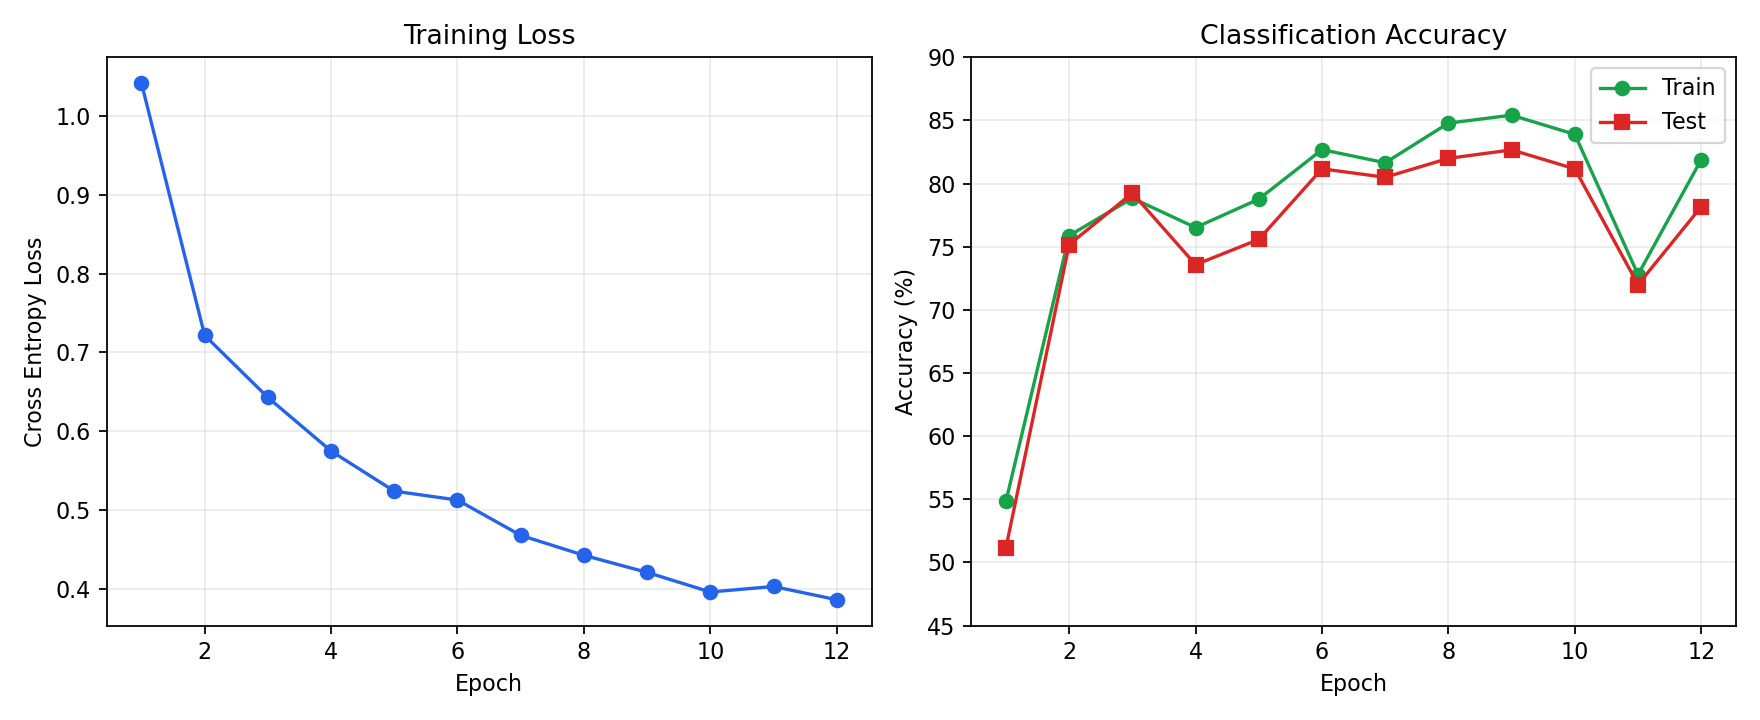
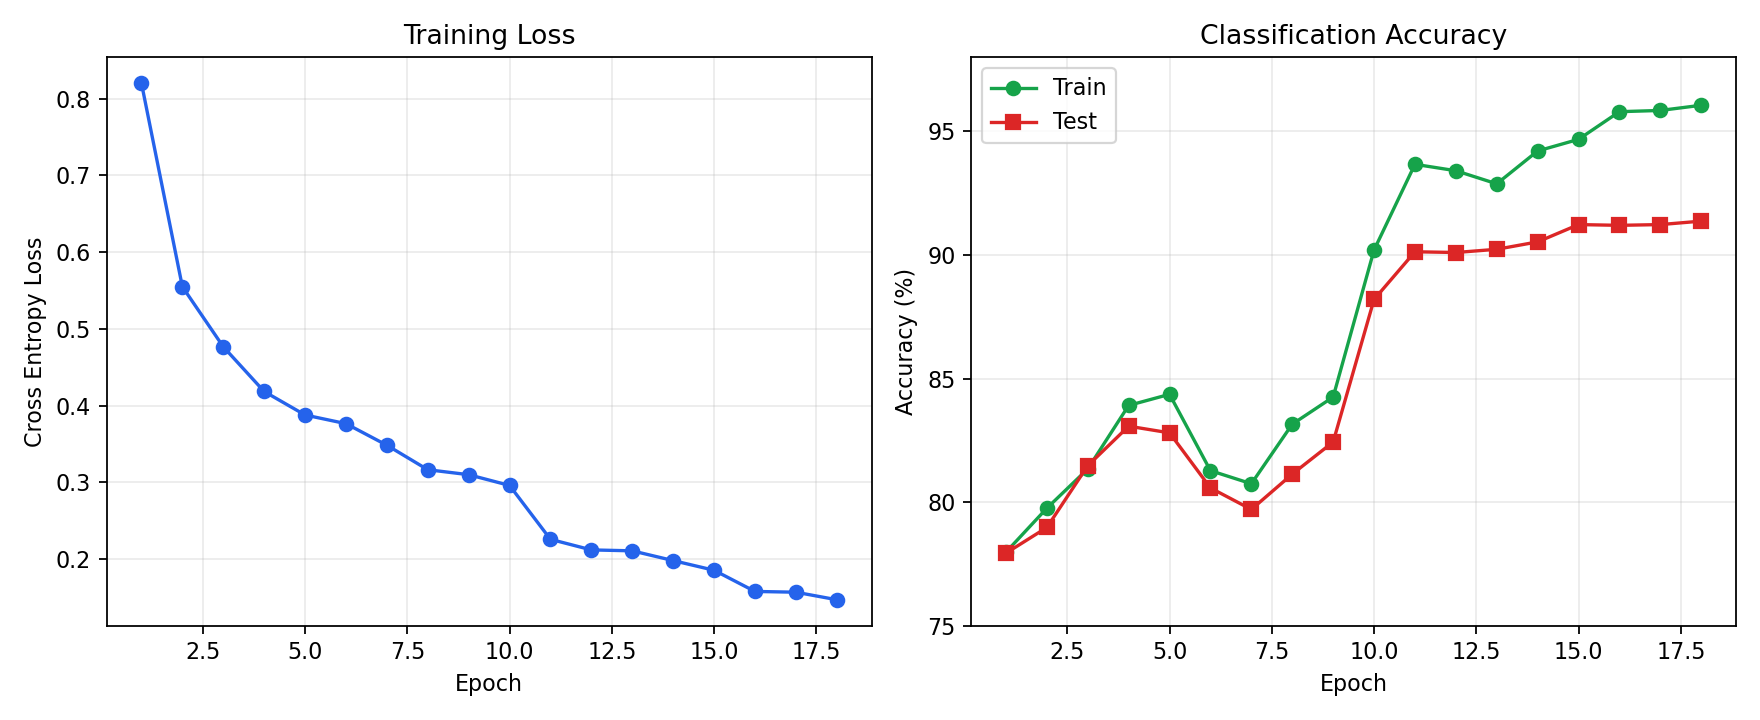
Improve scene classification accuracy

diff --git a/src/main.rs b/src/main.rs
@@ -6,11 +6,11 @@ use tch::vision::image;
 use tch::{Cuda, Device, Kind, Tensor};
 
 const SCENE_CLASSES: [&str; 6] = ["buildings", "forest", "glacier", "mountain", "sea", "street"];
-const IMAGE_SIZE: i64 = 96;
-const TRAIN_PER_CLASS: usize = 800;
-const TEST_PER_CLASS: usize = 200;
+const IMAGE_SIZE: i64 = 128;
+const TRAIN_PER_CLASS: usize = usize::MAX;
+const TEST_PER_CLASS: usize = usize::MAX;
 const BATCH_SIZE: i64 = 64;
-const EPOCHS: i64 = 12;
+const EPOCHS: i64 = 18;
 
 #[derive(Debug)]
 struct ParallelModule<N1, N2> {
@@ -180,9 +180,10 @@ fn scene_cnn(vs: &nn::Path<'_>) -> SequentialT {
         .add(conv_block(&(vs / "block2"), 32, 64))
         .add(conv_block(&(vs / "block3"), 64, 128))
         .add(conv_block(&(vs / "block4"), 128, 256))
+        .add(conv_block(&(vs / "block5"), 256, 512))
         .add_fn(|xs| xs.adaptive_avg_pool2d([1, 1]).flat_view())
-        .add_fn_t(|xs, train| xs.dropout(0.4, train))
-        .add(nn::linear(vs / "head", 256, SCENE_CLASSES.len() as i64, Default::default()))
+        .add_fn_t(|xs, train| xs.dropout(0.5, train))
+        .add(nn::linear(vs / "head", 512, SCENE_CLASSES.len() as i64, Default::default()))
 }
 
 fn image_files(dir: &Path, limit: usize) -> Result<Vec<PathBuf>> {
@@ -197,7 +198,9 @@ fn image_files(dir: &Path, limit: usize) -> Result<Vec<PathBuf>> {
         })
         .collect::<Vec<_>>();
     files.sort();
-    files.truncate(limit);
+    if limit != usize::MAX {
+        files.truncate(limit);
+    }
     Ok(files)
 }
 
@@ -212,7 +215,10 @@ fn load_scene_split(root: &Path, per_class: usize) -> Result<(Tensor, Tensor)> {
         for file in files {
             let img = image::load_and_resize(&file, IMAGE_SIZE, IMAGE_SIZE)
                 .with_context(|| format!("读取图片失败: {}", file.display()))?;
-            images.push(img.to_kind(Kind::Float) / 255.0);
+            let img = img.to_kind(Kind::Float) / 255.0;
+            let mean = Tensor::from_slice(&[0.485_f32, 0.456, 0.406]).reshape([3, 1, 1]);
+            let std = Tensor::from_slice(&[0.229_f32, 0.224, 0.225]).reshape([3, 1, 1]);
+            images.push((img - mean) / std);
             labels.push(label as i64);
         }
     }
@@ -268,11 +274,21 @@ fn run_scene_classification(device: Device) -> Result<()> {
     let vs = nn::VarStore::new(device);
     let net = scene_cnn(&vs.root());
     let params: usize = vs.trainable_variables().iter().map(|t| t.numel()).sum();
-    println!("CNN 结构: Conv-BN-ReLU-Pool x4 -> AdaptiveAvgPool -> Dropout -> Linear");
+    println!("CNN 结构: Conv-BN-ReLU-Pool x5 -> AdaptiveAvgPool -> Dropout -> Linear");
     println!("可训练参数量: {params}");
 
     let mut optimizer = nn::AdamW::default().build(&vs, 1e-3)?;
+    let mut best_test_acc = 0.0;
+    let mut best_epoch = 0;
     for epoch in 1..=EPOCHS {
+        let lr = if epoch <= 10 {
+            1e-3
+        } else if epoch <= 15 {
+            3e-4
+        } else {
+            1e-4
+        };
+        optimizer.set_lr(lr);
         let mut total_loss = 0.0;
         let mut batches = 0;
         for (batch_images, batch_labels) in tch::data::Iter2::new(&train_images, &train_labels, BATCH_SIZE)
@@ -289,11 +305,16 @@ fn run_scene_classification(device: Device) -> Result<()> {
 
         let train_acc = evaluate_accuracy(&net, &train_images, &train_labels, device);
         let test_acc = evaluate_accuracy(&net, &test_images, &test_labels, device);
+        if test_acc > best_test_acc {
+            best_test_acc = test_acc;
+            best_epoch = epoch;
+        }
         println!(
-            "epoch {epoch:02}: loss={:.4}, train_acc={:.2}%, test_acc={:.2}%",
+            "epoch {epoch:02}: lr={lr:.0e}, loss={:.4}, train_acc={:.2}%, test_acc={:.2}%, best_test_acc={:.2}%@epoch{best_epoch:02}",
             total_loss / batches as f64,
             train_acc * 100.0,
-            test_acc * 100.0
+            test_acc * 100.0,
+            best_test_acc * 100.0
         );
     }
 

diff --git a/scripts/visualize_dataset.py b/scripts/visualize_dataset.py
@@ -15,18 +15,24 @@ PLOTS_DIR = ROOT / "plots"
 CLASSES = ["buildings", "forest", "glacier", "mountain", "sea", "street"]
 
 TRAIN_LOG = [
-    (1, 1.0418, 54.85, 51.17),
-    (2, 0.7217, 75.88, 75.17),
-    (3, 0.6429, 78.85, 79.25),
-    (4, 0.5749, 76.52, 73.58),
-    (5, 0.5240, 78.77, 75.58),
-    (6, 0.5127, 82.69, 81.17),
-    (7, 0.4679, 81.65, 80.50),
-    (8, 0.4426, 84.79, 82.00),
-    (9, 0.4209, 85.42, 82.67),
-    (10, 0.3960, 83.90, 81.17),
-    (11, 0.4030, 72.79, 72.00),
-    (12, 0.3862, 81.90, 78.17),
+    (1, 0.8202, 77.97, 77.93),
+    (2, 0.5550, 79.75, 78.97),
+    (3, 0.4768, 81.34, 81.47),
+    (4, 0.4185, 83.91, 83.07),
+    (5, 0.3879, 84.36, 82.80),
+    (6, 0.3766, 81.27, 80.57),
+    (7, 0.3485, 80.74, 79.70),
+    (8, 0.3166, 83.15, 81.13),
+    (9, 0.3101, 84.25, 82.43),
+    (10, 0.2961, 90.20, 88.20),
+    (11, 0.2259, 93.67, 90.13),
+    (12, 0.2121, 93.41, 90.10),
+    (13, 0.2109, 92.88, 90.23),
+    (14, 0.1982, 94.21, 90.53),
+    (15, 0.1856, 94.68, 91.23),
+    (16, 0.1580, 95.80, 91.20),
+    (17, 0.1570, 95.85, 91.23),
+    (18, 0.1472, 96.06, 91.37),
 ]
 
 
@@ -83,7 +89,7 @@ def save_training_curves() -> None:
     ax_acc.set_title("Classification Accuracy")
     ax_acc.set_xlabel("Epoch")
     ax_acc.set_ylabel("Accuracy (%)")
-    ax_acc.set_ylim(45, 90)
+    ax_acc.set_ylim(75, 98)
     ax_acc.legend()
     ax_acc.grid(alpha=0.25)
 

diff --git a/report.md b/report.md
@@ -229,10 +229,10 @@ street    501
 
 `rocm-smi` 观察到 GPU[0] 使用率达到 `99% - 100%`，说明训练确实在显卡上执行。
 
-本实验每个类别抽取 800 张训练图片、200 张测试图片，并统一缩放到 `96 x 96`。模型结构如下：
+为了提高分类指标，本实验改为使用完整训练集和完整测试集，并将输入图片统一缩放到 `128 x 128`。读取图片后使用 ImageNet 常用均值和标准差进行标准化。模型结构如下：
 
 ```text
-输入: 3 x 96 x 96
+输入: 3 x 128 x 128
 
 卷积块 1:
 Conv2d(3 -> 32, kernel=3, padding=1, bias=false)
@@ -242,7 +242,7 @@ Conv2d(32 -> 32, kernel=3, padding=1, bias=false)
 BatchNorm2d(32)
 ReLU
 MaxPool2d(kernel=2)
-输出: 32 x 48 x 48
+输出: 32 x 64 x 64
 
 卷积块 2:
 Conv2d(32 -> 64, kernel=3, padding=1, bias=false)
@@ -252,7 +252,7 @@ Conv2d(64 -> 64, kernel=3, padding=1, bias=false)
 BatchNorm2d(64)
 ReLU
 MaxPool2d(kernel=2)
-输出: 64 x 24 x 24
+输出: 64 x 32 x 32
 
 卷积块 3:
 Conv2d(64 -> 128, kernel=3, padding=1, bias=false)
@@ -262,7 +262,7 @@ Conv2d(128 -> 128, kernel=3, padding=1, bias=false)
 BatchNorm2d(128)
 ReLU
 MaxPool2d(kernel=2)
-输出: 128 x 12 x 12
+输出: 128 x 16 x 16
 
 卷积块 4:
 Conv2d(128 -> 256, kernel=3, padding=1, bias=false)
@@ -272,43 +272,59 @@ Conv2d(256 -> 256, kernel=3, padding=1, bias=false)
 BatchNorm2d(256)
 ReLU
 MaxPool2d(kernel=2)
-输出: 256 x 6 x 6
+输出: 256 x 8 x 8
+
+卷积块 5:
+Conv2d(256 -> 512, kernel=3, padding=1, bias=false)
+BatchNorm2d(512)
+ReLU
+Conv2d(512 -> 512, kernel=3, padding=1, bias=false)
+BatchNorm2d(512)
+ReLU
+MaxPool2d(kernel=2)
+输出: 512 x 4 x 4
 
 分类器:
 AdaptiveAvgPool2d(1 x 1)
 Flatten
-Dropout(0.4)
-Linear(256 -> 6)
+Dropout(0.5)
+Linear(512 -> 6)
 ```
 
-模型可训练参数量为 1174758。损失函数使用交叉熵损失：
+模型可训练参数量为 4717286。损失函数使用交叉熵损失：
 
 ```text
 loss = cross_entropy(logits, labels)
 ```
 
-优化器使用 AdamW，学习率为 `1e-3`，训练 12 轮。训练过程中对训练 batch 使用随机水平翻转和随机裁剪作为数据增强。
+优化器使用 AdamW，初始学习率为 `1e-3`，训练 18 轮。第 11 轮开始学习率衰减到 `3e-4`，第 16 轮开始衰减到 `1e-4`。训练过程中对训练 batch 使用随机水平翻转和随机裁剪作为数据增强。
 
 训练结果如下：
 
 ```text
-训练样本: 4800, 测试样本: 1200
-epoch 01: loss=1.0418, train_acc=54.85%, test_acc=51.17%
-epoch 02: loss=0.7217, train_acc=75.88%, test_acc=75.17%
-epoch 03: loss=0.6429, train_acc=78.85%, test_acc=79.25%
-epoch 04: loss=0.5749, train_acc=76.52%, test_acc=73.58%
-epoch 05: loss=0.5240, train_acc=78.77%, test_acc=75.58%
-epoch 06: loss=0.5127, train_acc=82.69%, test_acc=81.17%
-epoch 07: loss=0.4679, train_acc=81.65%, test_acc=80.50%
-epoch 08: loss=0.4426, train_acc=84.79%, test_acc=82.00%
-epoch 09: loss=0.4209, train_acc=85.42%, test_acc=82.67%
-epoch 10: loss=0.3960, train_acc=83.90%, test_acc=81.17%
-epoch 11: loss=0.4030, train_acc=72.79%, test_acc=72.00%
-epoch 12: loss=0.3862, train_acc=81.90%, test_acc=78.17%
+训练样本: 14034, 测试样本: 3000
+epoch 01: lr=1e-3, loss=0.8202, train_acc=77.97%, test_acc=77.93%
+epoch 02: lr=1e-3, loss=0.5550, train_acc=79.75%, test_acc=78.97%
+epoch 03: lr=1e-3, loss=0.4768, train_acc=81.34%, test_acc=81.47%
+epoch 04: lr=1e-3, loss=0.4185, train_acc=83.91%, test_acc=83.07%
+epoch 05: lr=1e-3, loss=0.3879, train_acc=84.36%, test_acc=82.80%
+epoch 06: lr=1e-3, loss=0.3766, train_acc=81.27%, test_acc=80.57%
+epoch 07: lr=1e-3, loss=0.3485, train_acc=80.74%, test_acc=79.70%
+epoch 08: lr=1e-3, loss=0.3166, train_acc=83.15%, test_acc=81.13%
+epoch 09: lr=1e-3, loss=0.3101, train_acc=84.25%, test_acc=82.43%
+epoch 10: lr=1e-3, loss=0.2961, train_acc=90.20%, test_acc=88.20%
+epoch 11: lr=3e-4, loss=0.2259, train_acc=93.67%, test_acc=90.13%
+epoch 12: lr=3e-4, loss=0.2121, train_acc=93.41%, test_acc=90.10%
+epoch 13: lr=3e-4, loss=0.2109, train_acc=92.88%, test_acc=90.23%
+epoch 14: lr=3e-4, loss=0.1982, train_acc=94.21%, test_acc=90.53%
+epoch 15: lr=3e-4, loss=0.1856, train_acc=94.68%, test_acc=91.23%
+epoch 16: lr=1e-4, loss=0.1580, train_acc=95.80%, test_acc=91.20%
+epoch 17: lr=1e-4, loss=0.1570, train_acc=95.85%, test_acc=91.23%
+epoch 18: lr=1e-4, loss=0.1472, train_acc=96.06%, test_acc=91.37%
 ```
 
 训练过程可视化如下：
 
 ![Training curves](plots/training_curves.png)
 
-可以看到，模型从随机水平约 `16.67%` 提升到最高 `82.67%` 的测试准确率。第 9 轮之后准确率有波动，说明继续训练时需要更细致地调整学习率，或保存验证集上表现最好的模型。整体上，该 CNN 已经能有效区分建筑、森林、冰川、山地、海洋和街道等场景类别。
+可以看到，模型从随机水平约 `16.67%` 提升到最高 `91.37%` 的测试准确率。相比上一版只使用部分数据和 `96 x 96` 输入时的最高 `82.67%`，完整数据、`128 x 128` 输入、更深的卷积网络、标准化以及学习率衰减带来了明显提升。整体上，该 CNN 已经能较好地区分建筑、森林、冰川、山地、海洋和街道等场景类别。